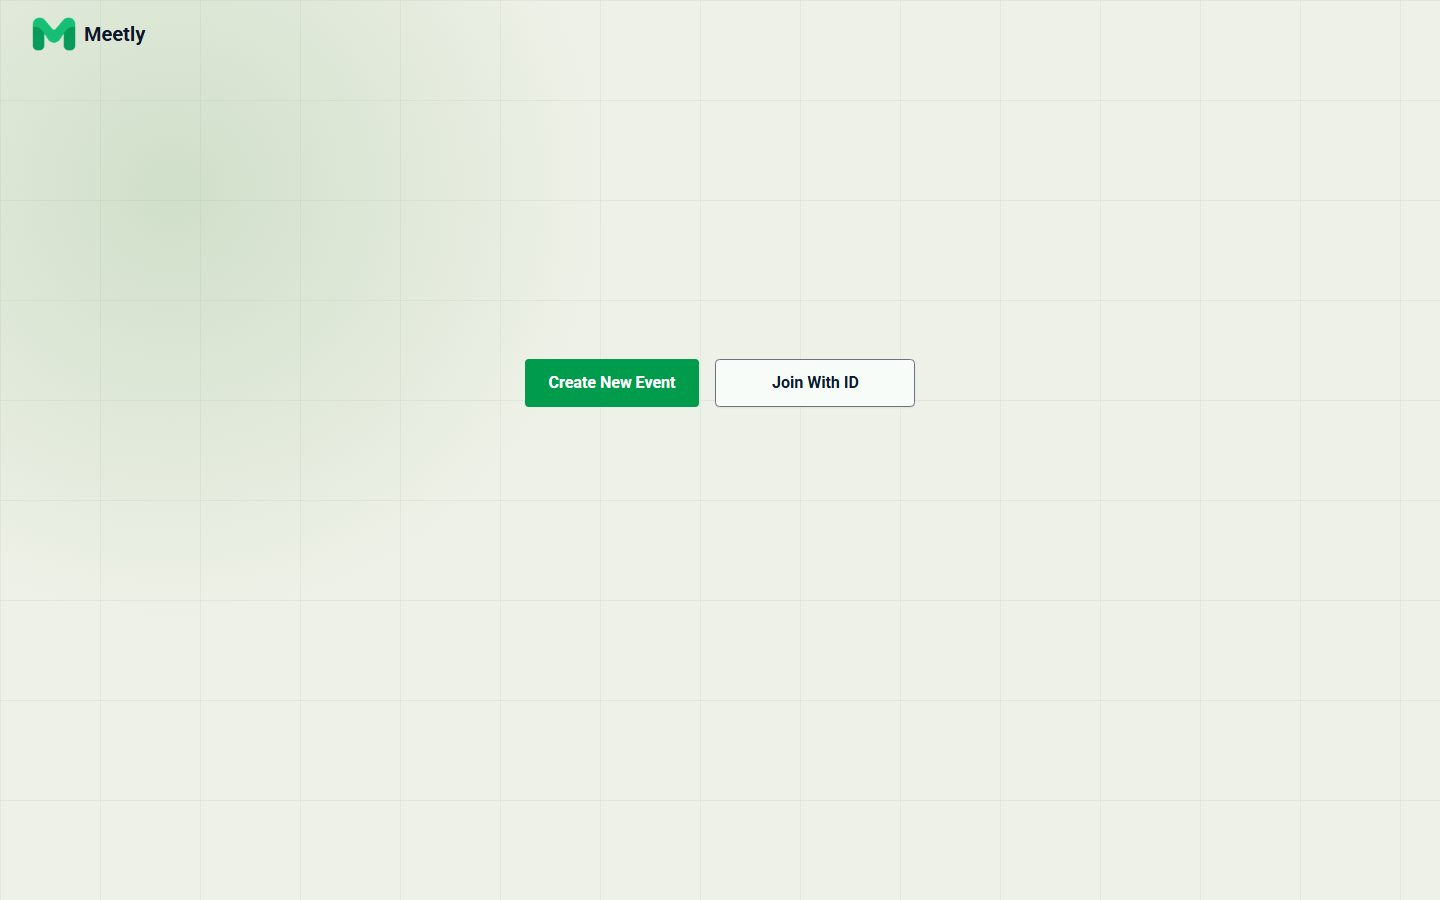
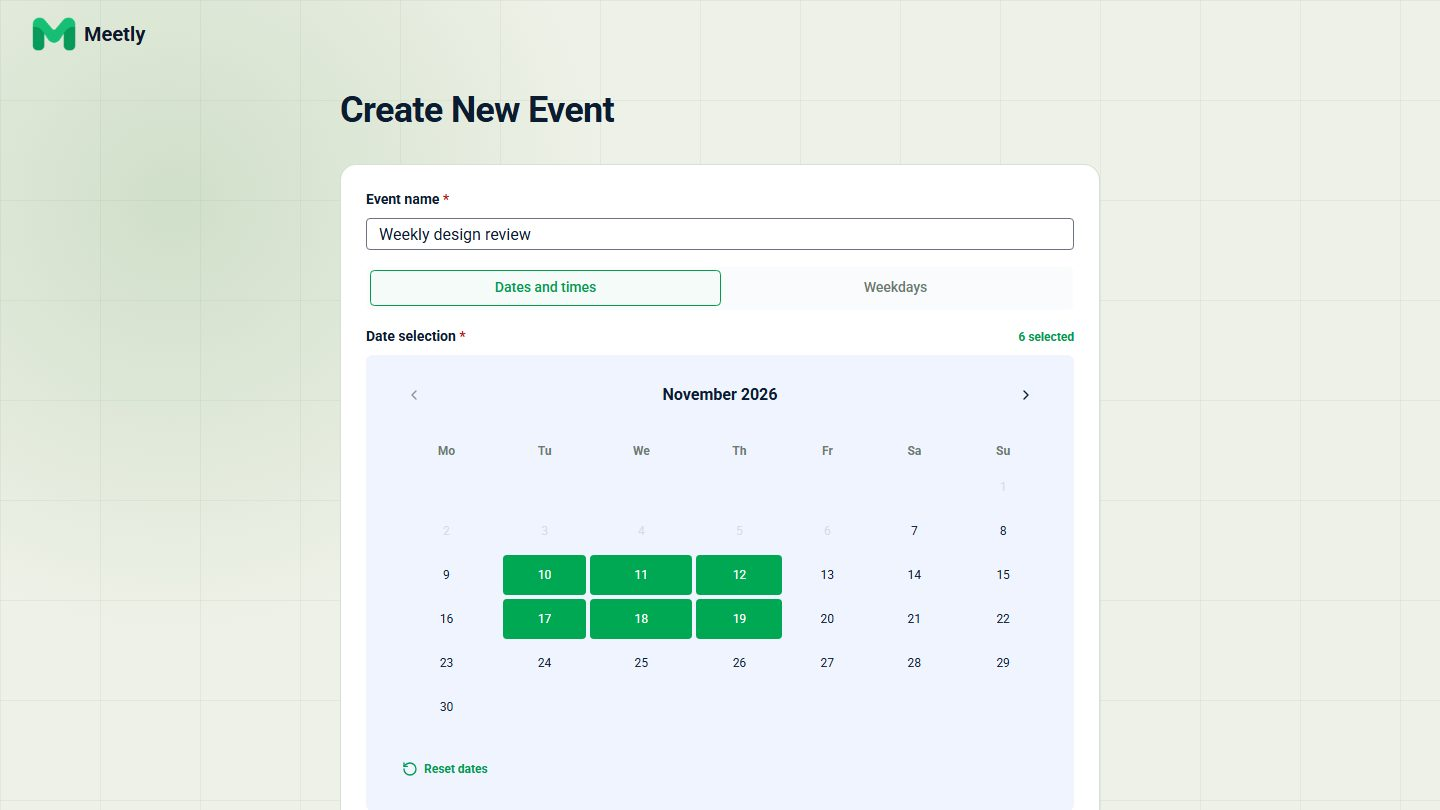
feat(projects): show Meetly's create-event admin screen
Captured from the live demo without submitting; all write requests were blocked during capture.

diff --git a/src/config/featured-projects.config.ts b/src/config/featured-projects.config.ts
@@ -27,7 +27,12 @@ export type FeaturedProjectConfig = {
   /** Page captured by scripts/capture-previews.ts when the demo's home page is not representative. */
   previewUrl?: string;
   /** Screenshot in /public/projects and where it came from (live demo or the repository itself). */
-  image?: { src: string; source: "demo" | "repository" };
+  image?: {
+    src: string;
+    source: "demo" | "repository";
+    /** Captured by hand (e.g. a screen behind a form); capture-previews.ts leaves it alone. */
+    manual?: boolean;
+  };
   /** Extra repositories linked from the case study (mirrors, preview deployments). */
   relatedRepos?: string[];
   context: ProjectContext;
@@ -64,7 +69,8 @@ export const FEATURED_PROJECTS: readonly FeaturedProjectConfig[] = [
   },
   {
     slug: "meetly",
-    image: { src: "/projects/meetly.jpg", source: "demo" },
+    // "Create New Event" admin form of the live demo, filled in but never submitted.
+    image: { src: "/projects/meetly.jpg", source: "demo", manual: true },
     repo: "HKBDU/Meetly",
     manifests: ["frontend/package.json"],
     context: "hkbdu",

diff --git a/scripts/capture-previews.ts b/scripts/capture-previews.ts
@@ -30,6 +30,10 @@ async function main(): Promise<void> {
   const only = process.argv[2];
   for (const project of FEATURED_PROJECTS.filter((p) => !only || p.slug === only)) {
     const url = project.previewUrl ?? project.demoUrl ?? repos[project.repo]?.homepageUrl;
+    if (project.image?.manual) {
+      console.log(`- ${project.slug}: manual screenshot, skipped`);
+      continue;
+    }
     if (!url) {
       console.log(`- ${project.slug}: no demo URL, skipped`);
       continue;
